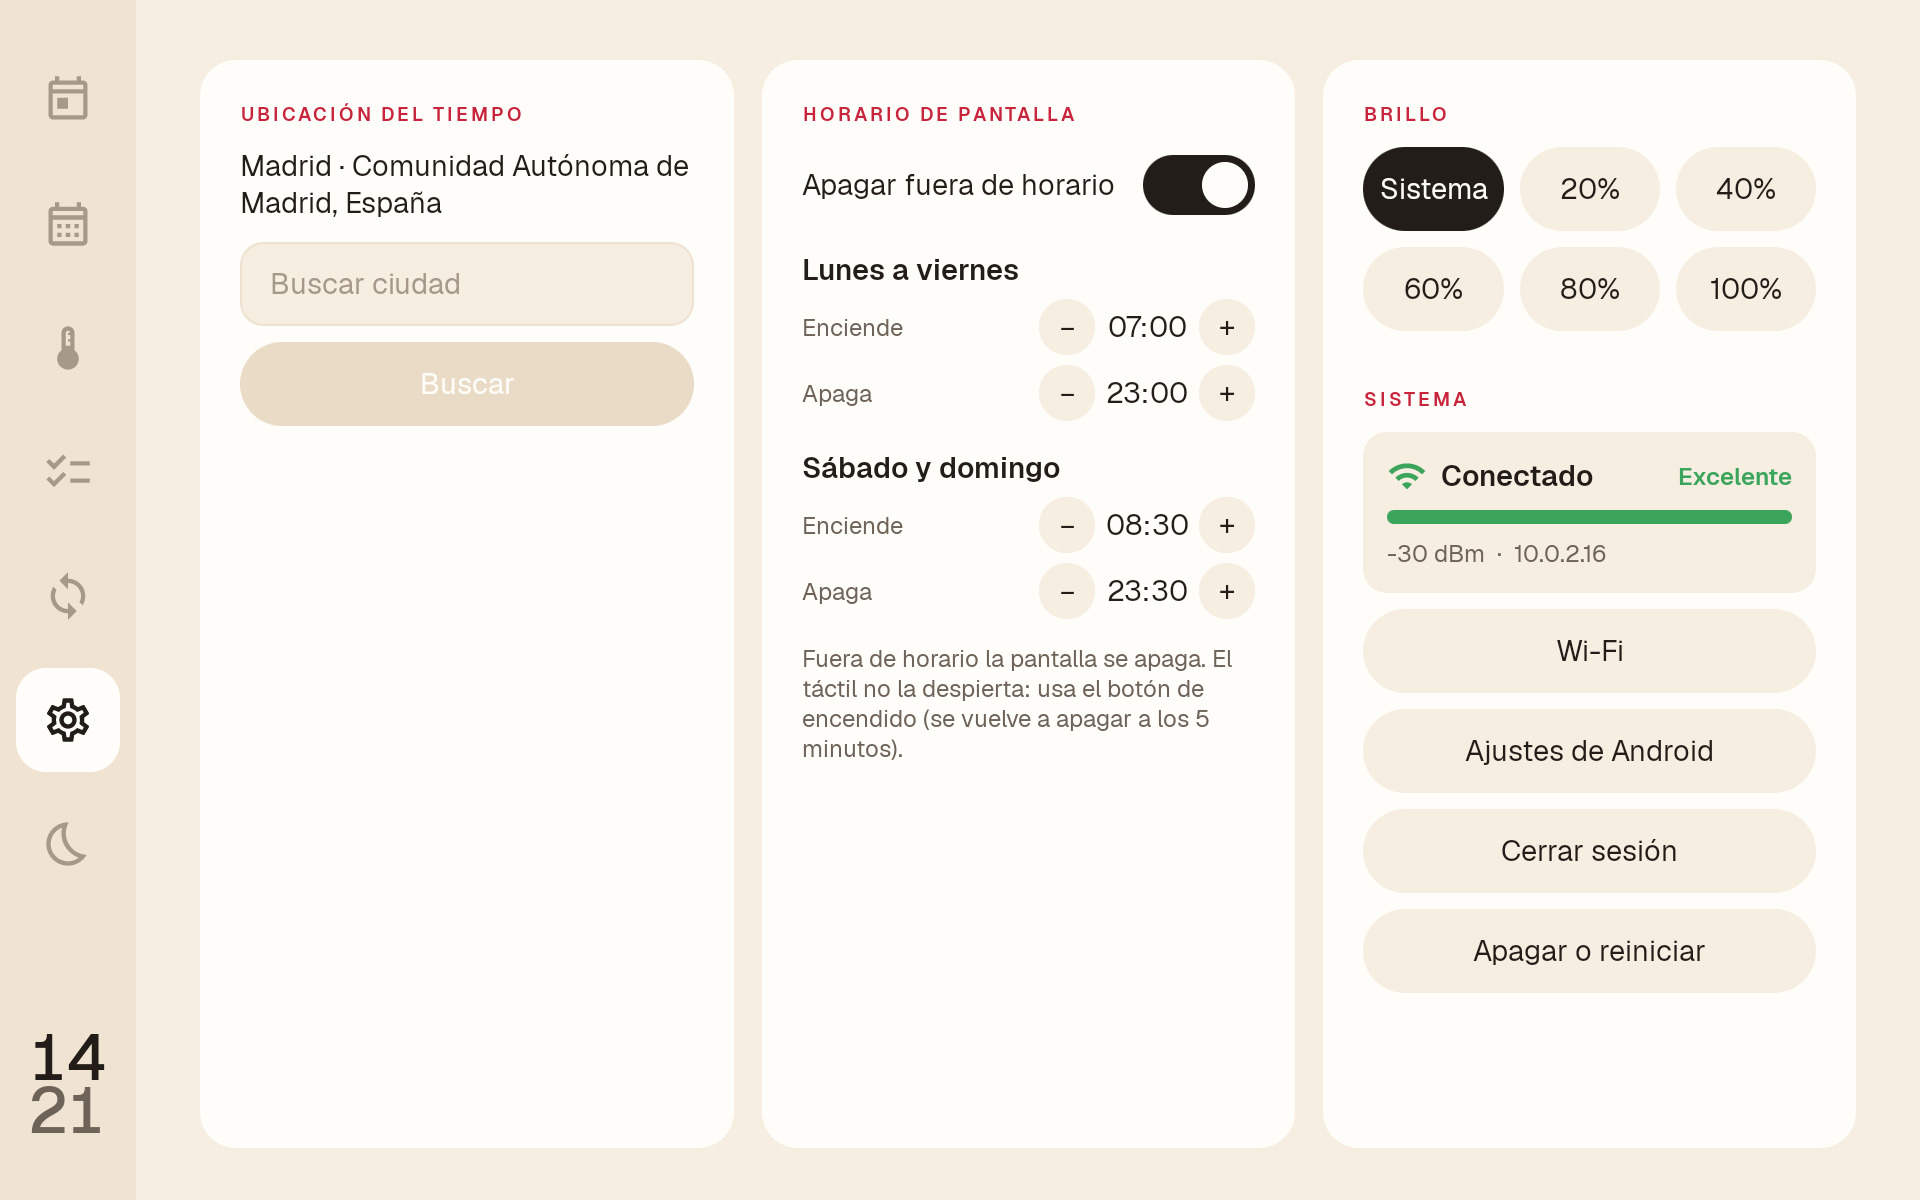
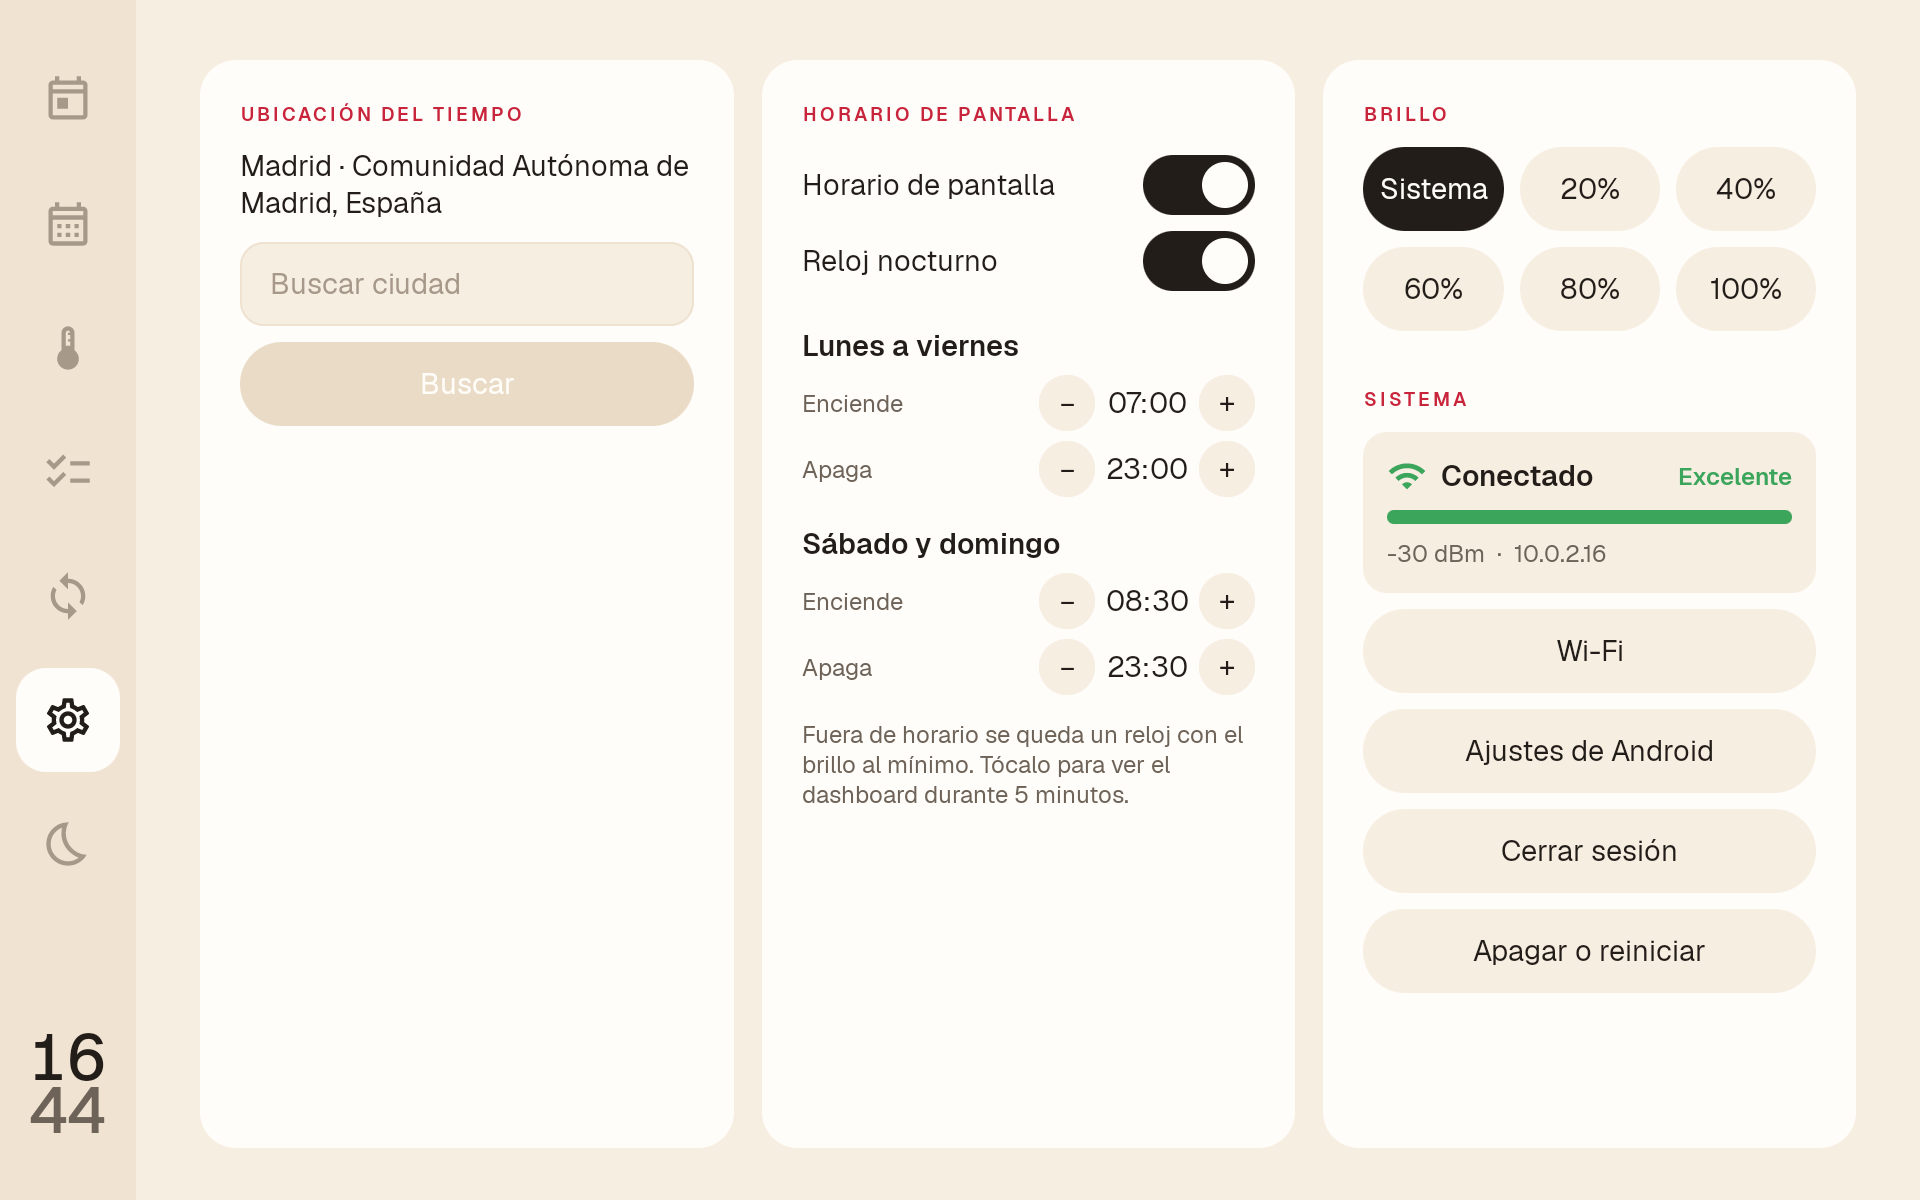
README: captura del reloj nocturno y de los ajustes con su interruptor

diff --git a/README.md b/README.md
@@ -60,8 +60,13 @@ Las tareas pendientes de las listas elegidas en la APP, una columna por lista.
 
 <img src="docs/images/tasks.png" alt="Tareas" />
 
+### Reloj nocturno
+Fuera de horario, o al pulsar la luna de la barra lateral, la pantalla no se apaga: queda la hora en grande, la fecha y el tiempo de ahora en blanco sobre negro, con la retroiluminación al mínimo (1 de 255). Tocarlo enseña el dashboard; fuera de horario, durante 5 minutos.
+
+<img src="docs/images/night.png" alt="Reloj nocturno" />
+
 ### Ajustes
-Ubicación del tiempo (búsqueda en Open-Meteo), horario de pantalla (entre semana y fin de semana), brillo y Sistema: estado del Wi-Fi, Ajustes de Android, cerrar sesión y apagar o reiniciar.
+Ubicación del tiempo (búsqueda en Open-Meteo), horario de pantalla (entre semana y fin de semana, con el interruptor «Reloj nocturno»: si se desactiva, fuera de horario la pantalla se apaga del todo), brillo y Sistema: estado del Wi-Fi, Ajustes de Android, cerrar sesión y apagar o reiniciar.
 
 <img src="docs/images/settings.png" alt="Ajustes" />
 
